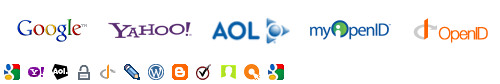
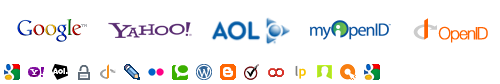
Enabled all providers, regenerated sprites

Changed region(s): [[0.27, 0.7619, 0.78, 0.9524]]

diff --git a/authopenid/htdocs/openid-selector/js/openid-jp.js b/authopenid/htdocs/openid-selector/js/openid-jp.js
@@ -37,16 +37,16 @@ var providers_small = {
 		label : 'LiveJournalのユーザーネームを記入してください。',
 		url : 'http://{username}.livejournal.com/'
 	},
-	/* flickr: {
+	flickr: {
 		name: 'Flickr',        
 		label: 'Flickrのユーザーネームを記入してください。',
 		url: 'http://flickr.com/{username}/'
-	}, */
-	/* technorati: {
+	},
+	technorati: {
 		name: 'Technorati',
 		label: 'Technoratiのユーザーネームを記入してください。',
 		url: 'http://technorati.com/people/technorati/{username}/'
-	}, */
+	},
 	wordpress : {
 		name : 'Wordpress',
 		label : 'Wordpress.comのユーザーネームを記入してください。',
@@ -62,16 +62,16 @@ var providers_small = {
 		label : 'Verisignのユーザーネームを記入してください。',
 		url : 'http://{username}.pip.verisignlabs.com/'
 	},
-	/* vidoop: {
+	vidoop: {
 		name: 'Vidoop',
 		label: 'Vidoopのユーザーネームを記入してください。',
 		url: 'http://{username}.myvidoop.com/'
-	}, */
-	/* launchpad: {
+	},
+	launchpad: {
 		name: 'Launchpad',
 		label: 'Launchpadのユーザーネームを記入してください。',
 		url: 'https://launchpad.net/~{username}'
-	}, */
+	},
 	claimid : {
 		name : 'ClaimID',
 		label : 'ClaimIDのユーザーネームを記入してください。',

diff --git a/authopenid/htdocs/openid-selector/js/openid-de.js b/authopenid/htdocs/openid-selector/js/openid-de.js
@@ -37,16 +37,16 @@ var providers_small = {
 		label : 'Bitte den LiveJournal Benutzernamen eingeben.',
 		url : 'http://{username}.livejournal.com/'
 	},
-	/* flickr: {
+	flickr: {
 		name: 'Flickr',        
 		label: 'Bitte den Flickr Benutzernamen eingeben.',
 		url: 'http://flickr.com/{username}/'
-	}, */
-	/* technorati: {
+	},
+	technorati: {
 		name: 'Technorati',
 		label: 'Bitte den Technorati Benutzernamen eingeben.',
 		url: 'http://technorati.com/people/technorati/{username}/'
-	}, */
+	},
 	wordpress : {
 		name : 'Wordpress',
 		label : 'Bitte den Wordpress.com Benutzernamen eingeben.',
@@ -62,16 +62,16 @@ var providers_small = {
 		label : 'Ihr Verisign Benutzername',
 		url : 'http://{username}.pip.verisignlabs.com/'
 	},
-	/* vidoop: {
+	vidoop: {
 		name: 'Vidoop',
 		label: 'Ihr Vidoop Benutzername',
 		url: 'http://{username}.myvidoop.com/'
-	}, */
-	/* launchpad: {
+	},
+	launchpad: {
 		name: 'Launchpad',
 		label: 'Ihr Launchpad Benutzername',
 		url: 'https://launchpad.net/~{username}'
-	}, */
+	},
 	claimid : {
 		name : 'ClaimID',
 		label : 'Ihr ClaimID Benutzername',

diff --git a/authopenid/htdocs/openid-selector/js/openid-zh_CN.js b/authopenid/htdocs/openid-selector/js/openid-zh_CN.js
@@ -37,16 +37,16 @@ var providers_small = {
 		label : '请输入你的 Livejournal 用户名。',
 		url : 'http://{username}.livejournal.com/'
 	},
-	/* flickr: {
+	flickr: {
 		name: 'Flickr',        
 		label: '请输入你的 Flickr 用户名。',
 		url: 'http://flickr.com/{username}/'
-	}, */
-	/* technorati: {
+	},
+	technorati: {
 		name: 'Technorati',
 		label: '请输入你的 Technorati 用户名。',
 		url: 'http://technorati.com/people/technorati/{username}/'
-	}, */
+	},
 	wordpress : {
 		name : 'Wordpress',
 		label : '请输入你的 Wordpress.com 用户名。',
@@ -62,16 +62,16 @@ var providers_small = {
 		label : '你的 Verisign 用户名',
 		url : 'http://{username}.pip.verisignlabs.com/'
 	},
-	/* vidoop: {
+	vidoop: {
 		name: 'Vidoop',
 		label: '你的 Vidoop 用户名',
 		url: 'http://{username}.myvidoop.com/'
-	}, */
-	/* launchpad: {
+	},
+	launchpad: {
 		name: 'Launchpad',
 		label: '你的 Launchpad 用户名',
 		url: 'https://launchpad.net/~{username}'
-	}, */
+	},
 	claimid : {
 		name : 'ClaimID',
 		label : '你的 ClaimID 用户名',

diff --git a/authopenid/htdocs/openid-selector/js/openid-zh_TW.js b/authopenid/htdocs/openid-selector/js/openid-zh_TW.js
@@ -37,16 +37,16 @@ var providers_small = {
 		label : '輸入您Livejournal的用戶名稱.',
 		url : 'http://{username}.livejournal.com/'
 	},
-	/* flickr: {
+	flickr: {
 		name: 'Flickr',        
 		label: '輸入您Flickr的用戶名稱.',
 		url: 'http://flickr.com/{username}/'
-	}, */
-	/* technorati: {
+	},
+	technorati: {
 		name: 'Technorati',
 		label: '的用戶名稱Technorati的用戶名稱.',
 		url: 'http://technorati.com/people/technorati/{username}/'
-	}, */
+	},
 	wordpress : {
 		name : 'Wordpress',
 		label : '輸入您Wordpress.com username.',
@@ -62,16 +62,16 @@ var providers_small = {
 		label : '您Verisign的用戶名稱 ',
 		url : 'http://{username}.pip.verisignlabs.com/'
 	},
-	/* vidoop: {
+	vidoop: {
 		name: 'Vidoop',
 		label: '您Vidoop的用戶名稱',
 		url: 'http://{username}.myvidoop.com/'
-	}, */
-	/* launchpad: {
+	},
+	launchpad: {
 		name: 'Launchpad',
 		label: '您Launchpad的用戶名稱',
 		url: 'https://launchpad.net/~{username}'
-	}, */
+	},
 	claimid : {
 		name : 'ClaimID',
 		label : '您ClaimID的用戶名稱',

diff --git a/authopenid/htdocs/openid-selector/js/openid-en.js b/authopenid/htdocs/openid-selector/js/openid-en.js
@@ -37,16 +37,16 @@ var providers_small = {
 		label : 'Enter your Livejournal username.',
 		url : 'http://{username}.livejournal.com/'
 	},
-	/* flickr: {
+	flickr: {
 		name: 'Flickr',        
 		label: 'Enter your Flickr username.',
 		url: 'http://flickr.com/{username}/'
-	}, */
-	/* technorati: {
+	},
+	technorati: {
 		name: 'Technorati',
 		label: 'Enter your Technorati username.',
 		url: 'http://technorati.com/people/technorati/{username}/'
-	}, */
+	},
 	wordpress : {
 		name : 'Wordpress',
 		label : 'Enter your Wordpress.com username.',
@@ -62,16 +62,16 @@ var providers_small = {
 		label : 'Your Verisign username',
 		url : 'http://{username}.pip.verisignlabs.com/'
 	},
-	/* vidoop: {
+	vidoop: {
 		name: 'Vidoop',
 		label: 'Your Vidoop username',
 		url: 'http://{username}.myvidoop.com/'
-	}, */
-	/* launchpad: {
+	},
+	launchpad: {
 		name: 'Launchpad',
 		label: 'Your Launchpad username',
 		url: 'https://launchpad.net/~{username}'
-	}, */
+	},
 	claimid : {
 		name : 'ClaimID',
 		label : 'Your ClaimID username',
